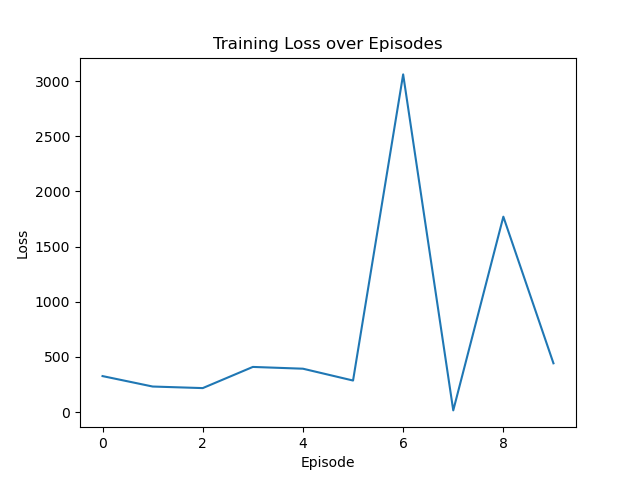
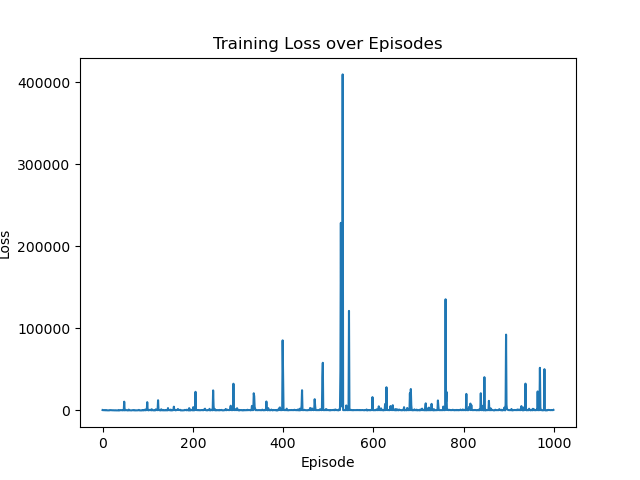
updated code

diff --git a/utils_deep.py b/utils_deep.py
@@ -103,7 +103,7 @@ def choose_action(vec_state : np.ndarray, epsilon: float, model ) -> int:
 
 
 
-def train_Q_learning_DQN(alpha: float, gamma: float, epsilon_start: float, episode: int, rewards: tuple[int, int, int, int] ) -> np.ndarray:
+def train_Q_learning_DQN(alpha: float, gamma: float, epsilon_start: float, episode: int, rewards: tuple[int, int, int, int] ) -> Model:
     """
     Train a Deep Q-Learning model using a DNN.
 
@@ -114,29 +114,31 @@ def train_Q_learning_DQN(alpha: float, gamma: float, epsilon_start: float, episo
         episode (int): Number of training episodes
         rewards (tuple[int, int, int, int]): Rewards for (goal, step, obstacle, out_of_bounds)
     Returns:
-        np.ndarray: Q-table learned by the model
+        Model : Trained DNN model
     """
 
     model = build_dnn_model()
 
 
-    
+    start_time = time.time()
     epsilon = epsilon_start
     epsilon_min = 0.1
-    epsilon_decay = 0.8
+    epsilon_decay = 0.995
 
-    
+
 
     suivi = np.zeros((episode))
 
-    
 
-    for i in tqdm(range(episode)):
+
+    pbar = tqdm(range(episode), desc="Training Episodes", unit="ep")
+    for i in pbar:
         pos = (0, 0)
         space = initialize_space()
 
         N = space.shape[0]*space.shape[1]
         done = False
+        steps = 0
 
         while not done:
             vec_state = space_to_vec(pos, N)
@@ -165,6 +167,15 @@ def train_Q_learning_DQN(alpha: float, gamma: float, epsilon_start: float, episo
             # print(loss)
 
             pos = new_pos
+            steps += 1
+
+        pbar.set_postfix({
+            'Episode': i+1,
+            'Epsilon': f"{epsilon:.3f}",
+            'Avg Loss': f"{np.mean(suivi[:i+1]):.4f}",
+            'Steps/Ep': steps,
+            'Time': f"{time.time() - start_time:.1f}s"
+        })
 
 
 
@@ -215,9 +226,9 @@ def test_policy_DQN(model, rewards: tuple[int, int, int, int]) -> None:
         # time.sleep(0.5)
 
         if done:
-
             print(f"Victory! Total reward: {total_reward} in {steps} steps.")
 
 
 
     print("Total reward during test:", total_reward)
+

diff --git a/main.py b/main.py
@@ -34,8 +34,8 @@ def test_qdeeplearning():
     # Paramètres
     ALPHA = 0.001
     GAMMA = 0.999
-    EPSILON_START = .99
-    EPOCHS = 10
+    EPSILON_START = .999
+    EPOCHS = 1000
 
     space = initialize_space()
 
